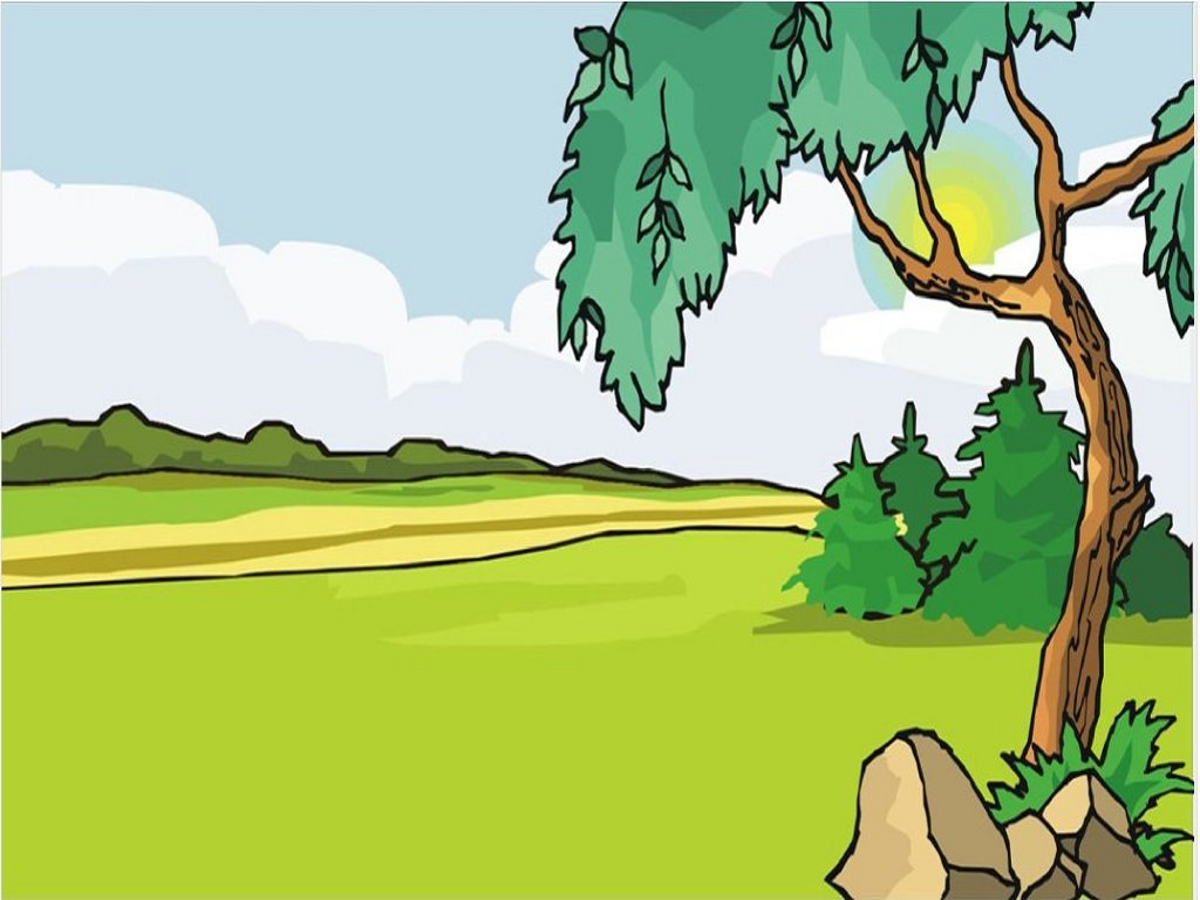
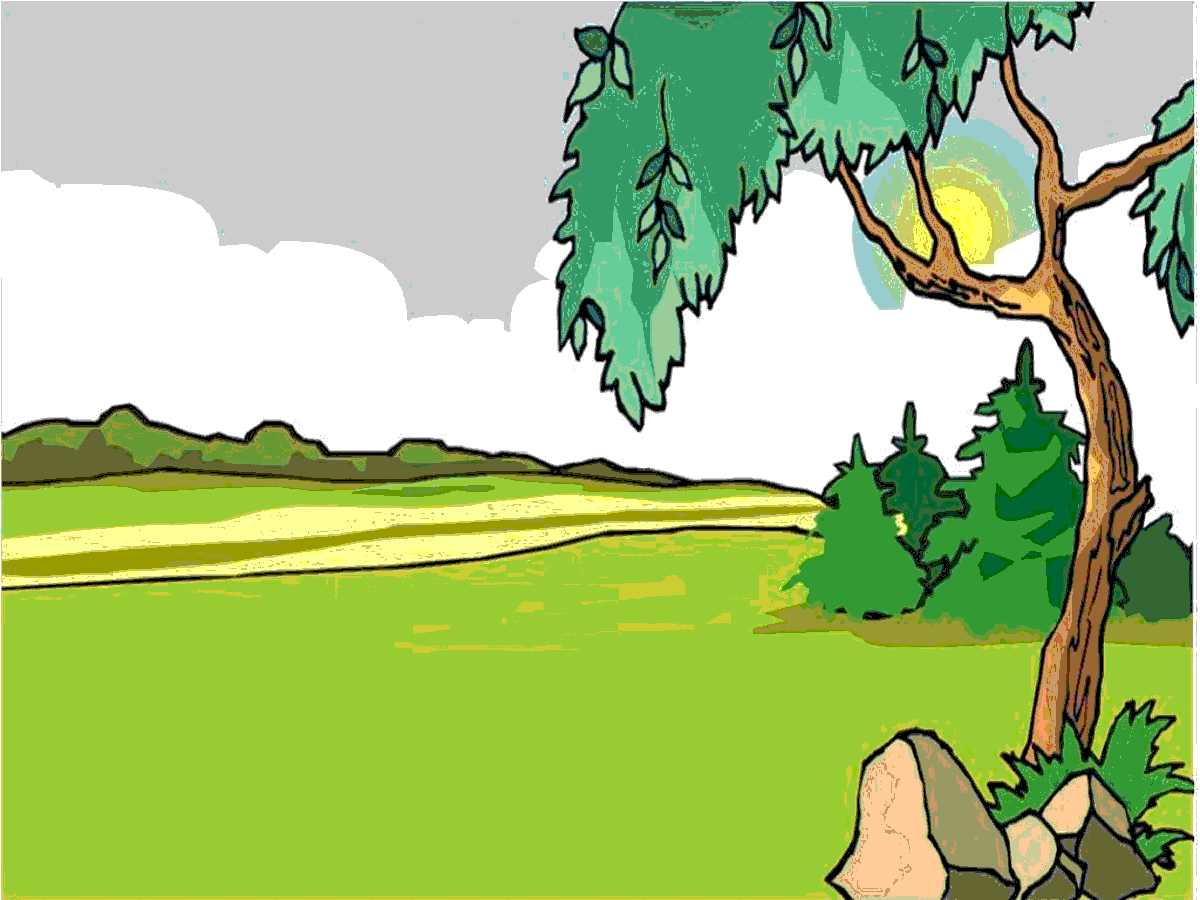
shrink bg image and delete some unneeded images

diff --git a/examples/English_Animal_Identification/start.html b/examples/English_Animal_Identification/start.html
@@ -47,8 +47,11 @@
       </div>
     </div>
     <div id="bottom">
-      <div id="logo" class="center"><div></div></div>
-      
+      <a href="http://www.olenepal.org">
+	<div id="logo" class="center">
+	  <div></div>
+	</div>
+      </a>
       <div id="copyright">
 	Copyright <a href="http://www.olenepal.org">OLE Nepal</a> 2009, 
       <a href="http://www.opensource.org/licenses/mit-license.php">MIT License</a>
@@ -56,10 +59,14 @@
     </div>
   <script type="text/javascript">
     Karma.scaleToViewport();
-    /*if (window.innerWidth !== 1200){
-	//$('#kStart').css({width:'800px', height:'600px'});	
-	$('#kStart').css({width: window.innerWidth, height: window.innerHeight -13});	
+
+    /*if(globalStorage['foo'] === "foobar"){
+	console.log('fussybar');
+    } else{
+	document.write("" + globalStorage.getItem('foo'));
+	globalStorage['foo'] = "foobar";
     } */
+
   </script>
 </body>
 </html>

diff --git a/examples/English_Animal_Identification/js/lesson.js b/examples/English_Animal_Identification/js/lesson.js
@@ -41,10 +41,24 @@ $(document).ready(
 		    $('.imageBox').hide();
 		    $('#gameOver').show();
 		});  
-	 
-	 load_images();  //load the image numbers for random display
-	 game();     //let the game begin
-	 
+	    kFooter.bind('kFooterRestart',
+		function() {
+		    object_counter = 1;
+		    imgNameRand = [];
+		    optPosition = [];
+		    optOtherPos = [];
+		    imageObject = [];
+		    score = 0;
+		    wrong_selected = 0;  //wrong option selected so don't score up
+		    
+		     load_images();  
+		     game();     
+	
+		}
+	    );
+
+	load_images();  //load the image numbers for random display
+	game();     //let the game begin
 
 	 
 	 function checkDisplay(){   //Displays the correct and incorrect info

diff --git a/js/ui.kFooter.js b/js/ui.kFooter.js
@@ -315,7 +315,7 @@
 		   * @type boolean
 		   * @default false
 		   */
-		  startButton: true,
+		  startButton: false,
 		  /** Display the Retart Button
 		   * @type boolean
 		   * @default true
@@ -325,7 +325,7 @@
 		   * @type boolean
 		   * @default false
 		   */
-		  pauseButton: true
+		  pauseButton: false
 	      };
 
  })(jQuery);

diff --git a/examples/English_Animal_Identification/css/lesson.css b/examples/English_Animal_Identification/css/lesson.css
@@ -1,6 +1,6 @@
 @CHARSET "UTF-8";
 body {
-  background: url(../assets/image/background.jpg) no-repeat;
+  background: url(../assets/image/background.png) no-repeat;
   width: 1200px;
   height: 884px;
   -moz-background-size: 100% 100%;

diff --git a/css/kStart.css b/css/kStart.css
@@ -16,7 +16,7 @@
 #kStart #top{
     height: 15%;
     width: 100%;
-    color: blue;
+    color: #8a72c4;
 }
 
 	#backBtn{
